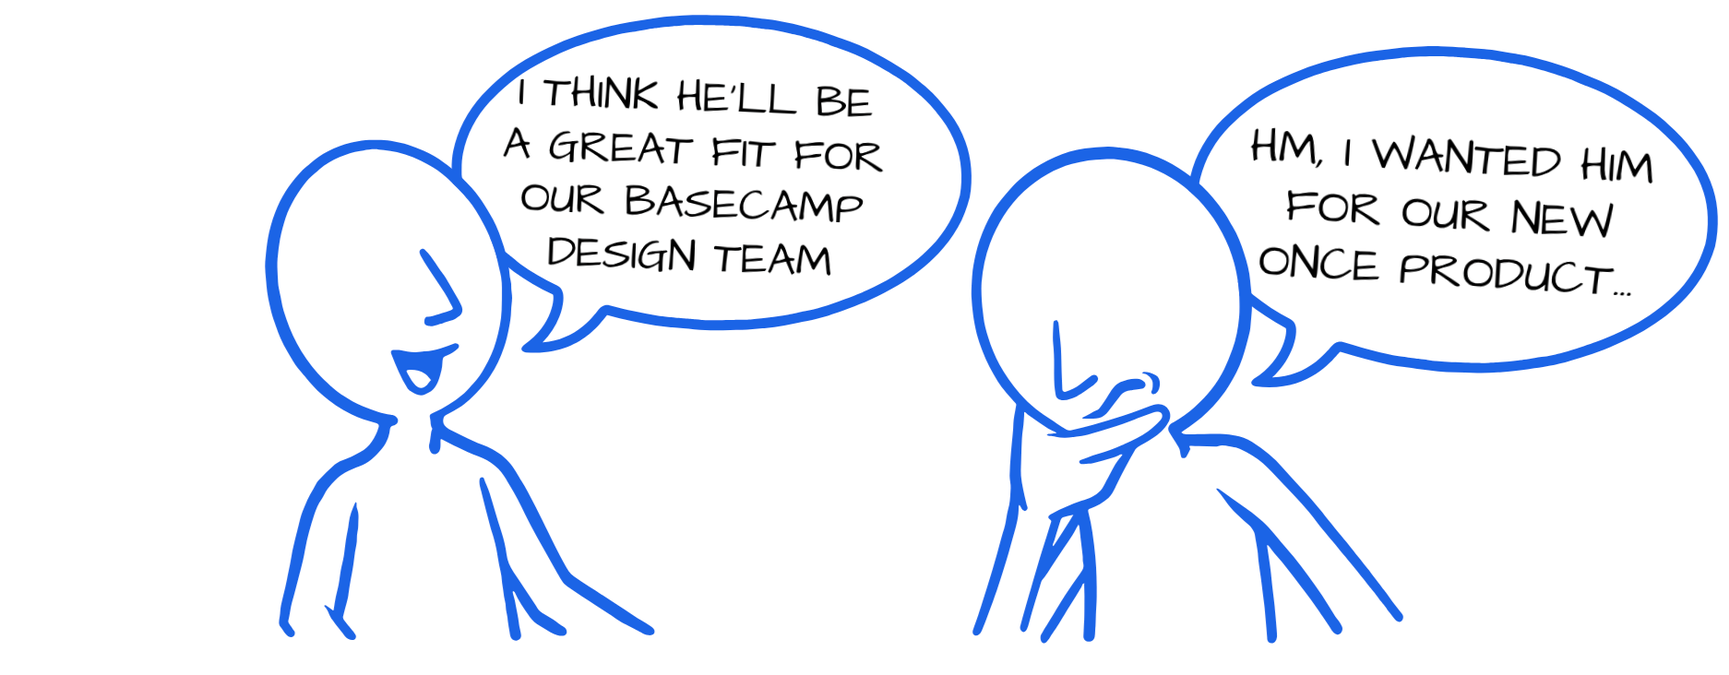
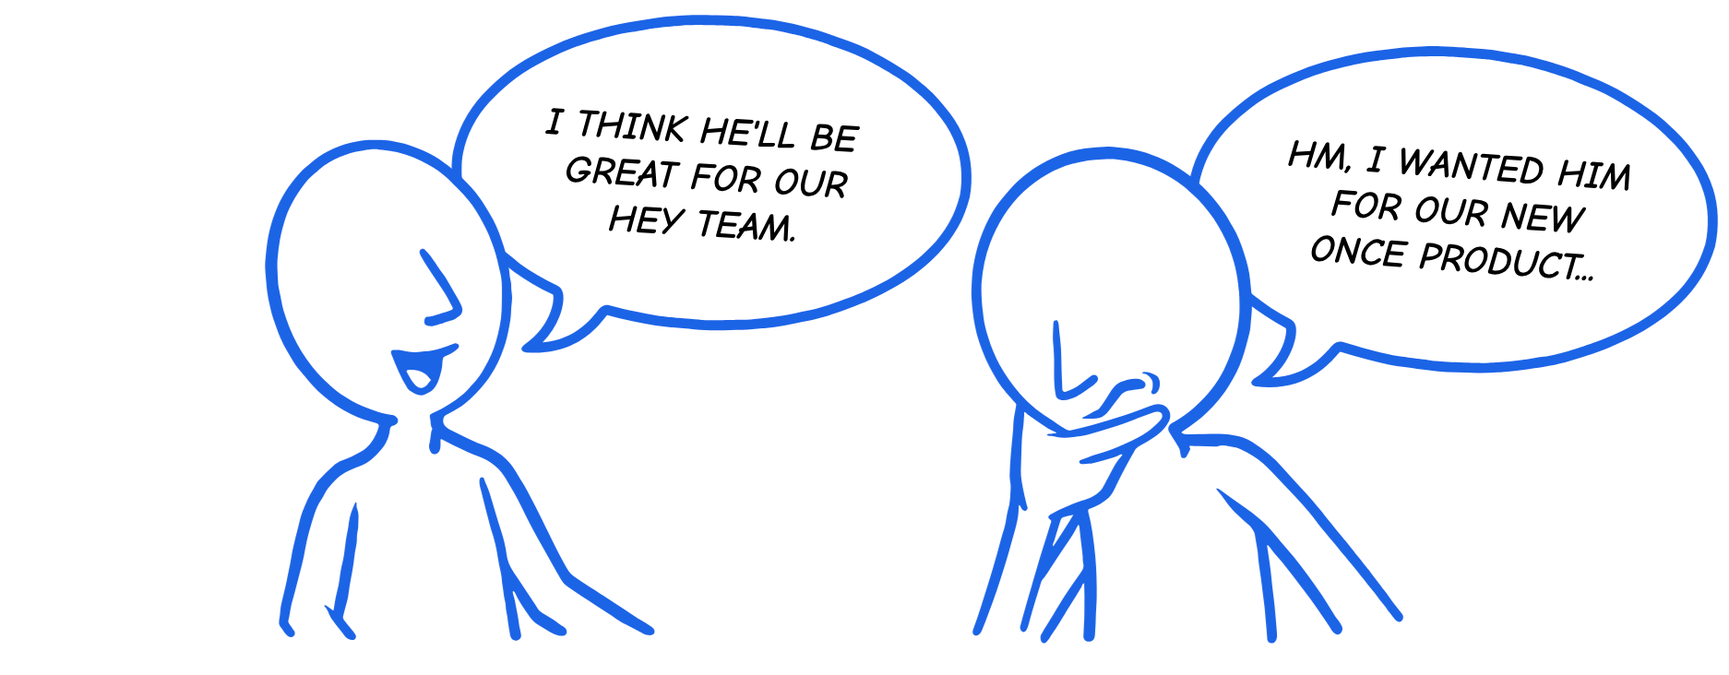
Back in the afray
- Updated Images
- Changed bubbles blurb
- Added content on index
- Updated ‘Resume’
- Added pitch.html
- Updated .md files
- Started removing unused classes, from HTML files

Changed region(s): [[0.2785, 0.1202, 0.5261, 0.4208], [0.7118, 0.1803, 0.9594, 0.4508]]

diff --git a/resume.html b/resume.html
@@ -32,8 +32,7 @@
 </head>
 
 
-<body data-controller="tracking engagement"
-    style="display: flex; justify-content: center; align-items: center; min-height: 100vh; margin: 0;">
+<body style="display: flex; justify-content: center; align-items: center; min-height: 100vh; margin: 0;">
 
     <div class="site" style="width: 100%; max-width: 1600px;">
 
@@ -68,7 +67,8 @@
                     <div class="uo-text__body">
                         <header>
                             <h2>Work Experience:</h2>
-                            <h3>Understairs.Ltd: February 2023 - Present:</h3>
+                            <h3>DBT via Hays : August 2024 - Present </h3>
+                            <h4>Interaction Designer (Department for Trade contract)</h4>
                         </header>
                         <article>
                             <p>I founded and currently lead Understairs.Ltd, a limited company aimed at empowering
@@ -90,16 +90,67 @@
 
                     <div class="uo-text__body">
                         <header>
-                            <h3>SmartSourcing: September 2022 - August 2023</h3>
+                            <h3>Allen Lane: January 2024 - August 2024</h3>
+                            <h4>Lead Interaction Designer - (Home Office contract)</h4>
+                        </header>
+                        <article>
+                            <p>Managed design delivery across multiple Home Office services, leading a team of 12
+                                designers and researchers. Key achievements include: Established design quality
+                                standards and review processes, developed custom components meeting WCAG 2.1 AA
+                                standards, created a design mentorship program to support junior team members, led the
+                                implementation of design system improvements, and facilitated knowledge-sharing
+                                sessions and design workshops.
+                            </p>
+                        </article>
+                    </div>
+
+                </section>
+            </div>
+
+            <div class="uo-text uo-space--transition-bottom">
+                <section>
+
+                    <div class="uo-text__body">
+                        <header>
+                            <h3>CCS via Jumar: February 2023 - January 2024</h3>
+                            <h4>Senior Interaction Designer - (CCS contract)</h4>
+                        </header>
+                        <article>
+                            <p>As a Senior Interaction Designer, I led the design and delivery of complex digital
+                                services within CCS, working closely with multidisciplinary teams to create
+                                user-centred solutions. I conducted extensive user research, facilitated design
+                                workshops, and developed high-fidelity prototypes using the GDS Design System. I
+                                championed accessibility standards and contributed to the continuous improvement of
+                                design practices through regular design critiques and detailed design histories. My
+                                work involved close collaboration with product owners, developers, and stakeholders to
+                                ensure services met both user needs and business objectives while adhering to GDS
+                                standards.
+                            </p>
+                        </article>
+                    </div>
+
+                </section>
+            </div>
+
+            <div class="uo-text uo-space--transition-bottom">
+                <section>
+
+                    <div class="uo-text__body">
+                        <header>
+                            <h3>SmartSourcing: September 2022 - February 2023</h3>
                             <h4>Senior Service and Interaction Designer - (UK Parliament Contract)</h4>
                         </header>
                         <article>
                             <p>In this role, I developed a GDS-style prototyping kit in .NET, enabling code-based
                                 prototyping using the PDS design system and the core infrastructure in Parliament. I
-                                spearheaded the adoption of an agile way of working to facilitate collaboration among
-                                multidisciplinary teams and eliminate silos. Additionally, I provided design expertise
-                                for a new product in the parliamentary web app ecosystem. Currently, I am part of the
-                                Design System team, involved in creating a new brand and front-end library, as well as
+                                spearheaded the adoption of an agile way of working to facilitate collaboration
+                                among
+                                multidisciplinary teams and eliminate silos. Additionally, I provided design
+                                expertise
+                                for a new product in the parliamentary web app ecosystem. Currently, I am part of
+                                the
+                                Design System team, involved in creating a new brand and front-end library, as well
+                                as
                                 training and mentoring design team members.
                             </p>
                         </article>
@@ -117,16 +168,22 @@
                             <h4>Senior Interaction Designer - (HMRC contract)</h4>
                         </header>
                         <article>
-                            <p>As a permanent staff member, I contributed to a high-impact, high-priority project for
-                                the HMRC. My responsibilities included planning, designing, and prototyping using the
+                            <p>As a permanent staff member, I contributed to a high-impact, high-priority project
+                                for
+                                the HMRC. My responsibilities included planning, designing, and prototyping using
+                                the
                                 GDS prototype kit. I collaborated within a large, multi-disciplinary team following
                                 Agile methodology. I was also involved in the digital transformation of Mercator,
                                 revamping the identity and web presence for the Digital division. I spearheaded the
                                 recruitment for Interaction designers by establishing a process for design and
-                                prototyping tests more aligned with a developer coding test. I continued to serve as a
-                                design assessor for GDS and created the HMRC standards by introducing a 3-part approach
-                                to Design Ops, which included Design critiques, Design Histories, and Pair programming.
-                                Ultimately, I led 12 teams of around 35 UCD people from a strategic perspective in terms
+                                prototyping tests more aligned with a developer coding test. I continued to serve as
+                                a
+                                design assessor for GDS and created the HMRC standards by introducing a 3-part
+                                approach
+                                to Design Ops, which included Design critiques, Design Histories, and Pair
+                                programming.
+                                Ultimately, I led 12 teams of around 35 UCD people from a strategic perspective in
+                                terms
                                 of how to grow the design functions using the 3-part approach for the Newcastle HMRC
                                 hub. This approach spread to other HMRC digital hubs.
                             </p>
@@ -146,13 +203,17 @@
                         </header>
                         <article>
                             <p>At the Department for Education, I played a key role starting as an individual
-                                contributor and progressing to leading teams in co-creating user-centric solutions. My
+                                contributor and progressing to leading teams in co-creating user-centric solutions.
+                                My
                                 responsibilities included gathering requirements, facilitating workshops and design
-                                sprints, and supporting the establishment of design standards. I also took on additional
+                                sprints, and supporting the establishment of design standards. I also took on
+                                additional
                                 responsibilities in training, recruitment, and resource planning. I actively
                                 participated in GDS assessments as a design assessor. Furthermore, I co-created an
-                                internal assessment process to ensure both internal and external-facing services met the
-                                GDS Standard and applied accessibility audits to ensure all services were prepared for
+                                internal assessment process to ensure both internal and external-facing services met
+                                the
+                                GDS Standard and applied accessibility audits to ensure all services were prepared
+                                for
                                 external assessments or met the relevant criteria even if they did not require one.
                                 Eventually I led 4 Digital teams of 10-12 UCD practitioners.
                             </p>
@@ -171,10 +232,13 @@
                             <h4>User Experience Manager - (DWP contract)</h4>
                         </header>
                         <article>
-                            <p>In this role, I led researchers, interview planning, and design efforts for SERCO'S DWP
-                                CSA contract. I applied the User-Centered Design process to create engaging lean process
+                            <p>In this role, I led researchers, interview planning, and design efforts for SERCO'S
+                                DWP
+                                CSA contract. I applied the User-Centered Design process to create engaging lean
+                                process
                                 experiences for residents and non-resident parents involved in supporting their
-                                children, resulting in a significant reduction of average handling time from 90 to 28
+                                children, resulting in a significant reduction of average handling time from 90 to
+                                28
                                 days.
                             </p>
                         </article>
@@ -192,9 +256,12 @@
                             <h4>Service Designer - (Permanent staff)</h4>
                         </header>
                         <article>
-                            <p>During my time at PJH Group, I contributed to a 20% year-on-year growth by researching,
-                                planning, and designing a new critical path process. This process helped secure further
-                                penetration in the B&Q account. I utilized project management methodologies to achieve
+                            <p>During my time at PJH Group, I contributed to a 20% year-on-year growth by
+                                researching,
+                                planning, and designing a new critical path process. This process helped secure
+                                further
+                                penetration in the B&Q account. I utilized project management methodologies to
+                                achieve
                                 successful outcomes.
                             </p>
                         </article>
@@ -213,8 +280,10 @@
                         </header>
                         <article>
                             <p>As the Lead Graphic Designer at Sunshine Design, I managed graphic design projects,
-                                including retouching photography, creating logos and brochures, and photographing hotels
-                                and landscapes. I also oversaw the relocation of the business and installation of new
+                                including retouching photography, creating logos and brochures, and photographing
+                                hotels
+                                and landscapes. I also oversaw the relocation of the business and installation of
+                                new
                                 DTP printers while effectively managing the workflow of the design team.
                             </p>
                         </article>
@@ -254,7 +323,7 @@
                     <dl>
                         <dt>Resume</dt>
                         <dd><strong>Posted.</strong> originally, <a
-                                href="https://understairs.ltd/curriculum-vitae/">here</a></dd>
+                                href="https://nikolaosgkionis.netlify.app/curriculum-vitae/">here</a></dd>
                     </dl>
                     <div class="footer__hey-2">
                         <a href="/index.html">Back</a>

diff --git a/index.html b/index.html
@@ -6,22 +6,11 @@
 
     <title>Nikolaos: The right choice for our new designer, probably!</title>
 
-
-    <link rel="dns-prefetch" href="https://dash.37signals.com">
-    <link rel="preconnect" href="https://dash.37signals.com">
-
-
-
-    <link rel="canonical" href="https://basecamp.com/">
     <link rel="icon" href="src/favicon_io/favicon.ico">
     <link rel="icon" type="image/png" sizes="32x32" href="src/favicon_io/favicon-32x32.png">
     <link rel="icon" type="image/png" sizes="16x16" href="src/favicon_io/favicon-16x16.png">
     <link rel="apple-touch-icon" sizes="180x180" href="src/favicon_io/apple-touch-icon.png">
     <link rel="stylesheet" href="src/styles.css">
-    <link rel="alternate" type="application/rss+xml" title="Basecamp Articles Feed"
-        href="https://basecamp.com/feed/articles.xml">
-    <link rel="alternate" type="application/rss+xml" title="New in Basecamp Feed"
-        href="https://basecamp.com/feed/new-in-basecamp.xml">
 
     <script type="text/javascript">
         taglines = [{ "tagline": "“An absolute star, Hell Yeah!”", "stars": true }];   </script>
@@ -32,15 +21,11 @@
 </head>
 
 
-<body data-controller="tracking engagement"
-    style="display: flex; justify-content: center; align-items: center; min-height: 100vh; margin: 0;">
+<body style="display: flex; justify-content: center; align-items: center; min-height: 100vh; margin: 0;">
 
-    <div class="site" style="width: 100%; max-width: 1600px;">
+    <div class="site" style="width: 100%; max-width: 1480px;">
 
         <header class="header">
-
-
-
 
             <div class="header__container">
                 <a class="header__logo" href="https://understairs.ltd/curriculum-vitae">
@@ -58,6 +43,12 @@
 
 
                 <ul class="header__options">
+                    <li><a class="button button--small button--text" href="/resume.html">Resume</a>
+                    </li>
+                    <li><a class="button button--small button--text" href="/anti-resume.html">Anti-Resume</a>
+                    </li>
+                    <li><a class="button button--small button--text" href="/pitch.html">Always there</a>
+                    </li>
                     <li><a class="button button--small button--text"
                             href="https://nikolaosgkionis.netlify.app">Portfolio</a>
                     </li>
@@ -87,9 +78,10 @@
                 <div class="uo-intro uo-space--transition-bottom">
                     <section>
                         <header>
-                            <h1>Why does it all come together.</h1>
-                            <h2>Nikolaos is an experienced Lead Interaction designer <strong>contracting for UK
-                                    Government departments</strong> but he's more than just a job title.</h2>
+                            <h1>How does it all come together.</h1>
+                            <h2>Nikolaos is an Interaction designer for the<strong> Department of Business and
+                                    Trade</strong> and a Service Designer for the<strong> Crown Commercial
+                                    Service</strong> but he's a lot more than just his 2 job titles.</h2>
                             <a class="button button--cta button--glow" href="mailto:nikolaos@hey.com">Say 👋 Hey</a>
                         </header>
 
@@ -98,7 +90,7 @@
 
 
 
-                <div class="uo-text uo-space--transition-bottom">
+                <div class="uo-text uo-space--transition-top">
                     <section>
 
                         <div class="uo-text__body">
@@ -111,7 +103,8 @@
                                     been
                                     in the
                                     industry for a long time. Someone who loves to learn <a
-                                        href="https://understairs.ltd/histories/forms/">new stuff</a>, and is always
+                                        href="https://nikolaosgkionis.netlify.app/histories/forms/">new stuff</a>, and
+                                    is always
                                     curious.
                                 </p>
                                 <p>Is <strong>Nikolaos</strong> going to be the perfect match? The <strong>'Hell
@@ -152,7 +145,8 @@
                                         href="https://retro64.altervista.org/blog/programming-sprites-the-commodore-64-simple-tutorial-using-basic-v2/">sprites</a>
                                     for his mother's photo-shop to use in video editing titles.
                                 </p>
-                                <p> After the army, he learned the Adobe software and started his career as a graphic
+                                <p> After the army, he learned the Adobe Software suite and started his career as a
+                                    graphic
                                     designer.
                                     It was't until late 2009 that his late <a
                                         href="https://github.com/Nikolaos-Gkionis/alfa-omega-licious/blob/master/images/alfa-omega-delivery-aigeas-u9826-fr.jpg">brother</a>
@@ -162,8 +156,8 @@
                                     he started working for the <a
                                         href="https://www.gov.uk/government/organisations/department-for-work-pensions">Department
                                         of Work and Pensions</a> as a Service Designer.
-                                    He now is a Lead Interaction designer working as a contractor for the <a
-                                        href="https://www.gov.uk/government/organisations/home-office">Home Office.</a>
+                                    He now is a Lead Interaction and Service Designer working as a contractor for hire.
+                                    At small repeated chunks of time. More on that later.
                                 </p>
                             </article>
                         </div>
@@ -258,10 +252,12 @@
                                         He wanted something <strong>different</strong>. He knew there was a better
                                         way. So, he found <strong>Basecamp</strong> and its founders. Their different
                                         approach to pretty much everything. From philosophy, to business model, to how
-                                        to build software. Just <strong class="text-highlight">take a look below at the
+                                        to build software. A few years later, he now has 2 contracts running
+                                        at the same time.
+                                        Just <strong class="text-highlight">take a look below at the
                                             apps that he
                                             has to content switch
-                                            between, on daily basis.</strong>
+                                            between, and double it!.</strong>
                                     </p>
                                 </article>
                             </div>
@@ -269,7 +265,7 @@
                             <div class="uo-text__aside">
                                 <div class="uo-modal-trigger" data-modal=".uo-modal__content--organizing-a-meet-up">
                                     <div class="image-container">
-                                        <img src="assets/img/calendar.png" alt="Calendar" class="calendar-image">
+                                        <img src="assets/img/calendar.jpeg" alt="Calendar" class="calendar-image">
                                     </div>
                                 </div>
                             </div>
@@ -341,9 +337,10 @@
                                 </blockquote>
 
                                 <blockquote>
-                                    <q>“Until you work with Nikolaos, you just think you are doing Interaction design.
-                                        <span class="text-highlight">Afterwards, you will know how to do
-                                            it.</span>”</q>
+                                    <q>“Before Nikolaos came to the team, I was leaning on the Front-end team to do the
+                                        coding part of the job.
+                                        <span class="text-highlight">Afterwards, Nikolaos took over the coding part of
+                                            the job, and I was able to focus on the research part more.</span>”</q>
                                     <cite>
                                         <p>Rohima Begum,<br>Interaction Designer, HMRC</p>
                                     </cite>
@@ -460,6 +457,8 @@
                         <dd><a href="https://github.com/nikolaos-gkionis">Github</a></dd>
                         <dd><a href="/resume.html">Resume</a></dd>
                         <dd><a href="/anti-resume.html">Anti-Resume</a></dd>
+                        <dd><a href="https://nikolaosgkionis.netlify.app">Portfolio</a></dd>
+                        <dd><a href="https://design-prototypes.com">Side Hustle</a></dd>
                     </dl>
                 </div>
             </div>

diff --git a/res.md b/res.md
@@ -4,13 +4,34 @@ I am a passionate and creative Service and Interaction Designer with a proven tr
 
 ### Work Experience:
 
-#### Understairs.Ltd: February 2023 - Present
+#### DBT via Hays : August 2024 - Present
 
-#### Lead Service and Interaction Designer / CEO
+#### Interaction Designer (Department for Trade contract)
 
-I founded and currently lead Understairs.Ltd, a limited company aimed at empowering individuals and organizations to design effectively for government departments. Our range of resources and services includes courses, one-to-one coaching, and group training to help clients develop design projects that adhere to the highest standards of usability, accessibility, and effectiveness. At Understairs.Ltd, we utilize GDS Standards, Design System, Design critiques, Design histories, and a prototyping kit to provide clients with the necessary tools for success.
+Working as part of the interaction design team to create user-centred solutions, participating in workshops, design critiques and pair programming sessions. Contribute to the development of custom components and ensure all work meets WCAG 2.1 AA accessibility standards. Collaborate with the wider UCD community to maintain high design standards and support continuous improvement initiatives.
 
-#### SmartSourcing: September 2022 - Present
+#### Allen Lane : January 2024 - August 2024
+
+#### Lead Interaction Designer (Home Office contract)
+
+Managed design delivery across multiple Home Office services, leading a team of 12 designers and researchers. Key achievements include:
+
+Established design quality standards and review processes
+Developed custom components meeting WCAG 2.1 AA standards
+Created a design mentorship program to support junior team members
+Led the implementation of design system improvements
+Facilitated knowledge-sharing sessions and design workshops
+CCS via Jumar: February 2023 - January 2024
+Senior Interaction Designer (CCS contract)
+As a Senior Interaction Designer, I led the design and delivery of complex digital services within CCS, working closely with multidisciplinary teams to create user-centred solutions. I conducted extensive user research, facilitated design workshops, and developed high-fidelity prototypes using the GDS Design System. I championed accessibility standards and contributed to the continuous improvement of design practices through regular design critiques and detailed design histories. My work involved close collaboration with product owners, developers, and stakeholders to ensure services met both user needs and business objectives while adhering to GDS standards.
+
+#### CCS via Jumar: February 2023 - January 2024
+
+#### Senior Interaction Designer (CCS contract)
+
+As a Senior Interaction Designer, I led the design and delivery of complex digital services within CCS, working closely with multidisciplinary teams to create user-centred solutions. I conducted extensive user research, facilitated design workshops, and developed high-fidelity prototypes using the GDS Design System. I championed accessibility standards and contributed to the continuous improvement of design practices through regular design critiques and detailed design histories. My work involved close collaboration with product owners, developers, and stakeholders to ensure services met both user needs and business objectives while adhering to GDS standards.
+
+#### SmartSourcing: September 2022 - February 2023
 
 #### Senior Service and Interaction Designer (UK Parliament Contract)
 
